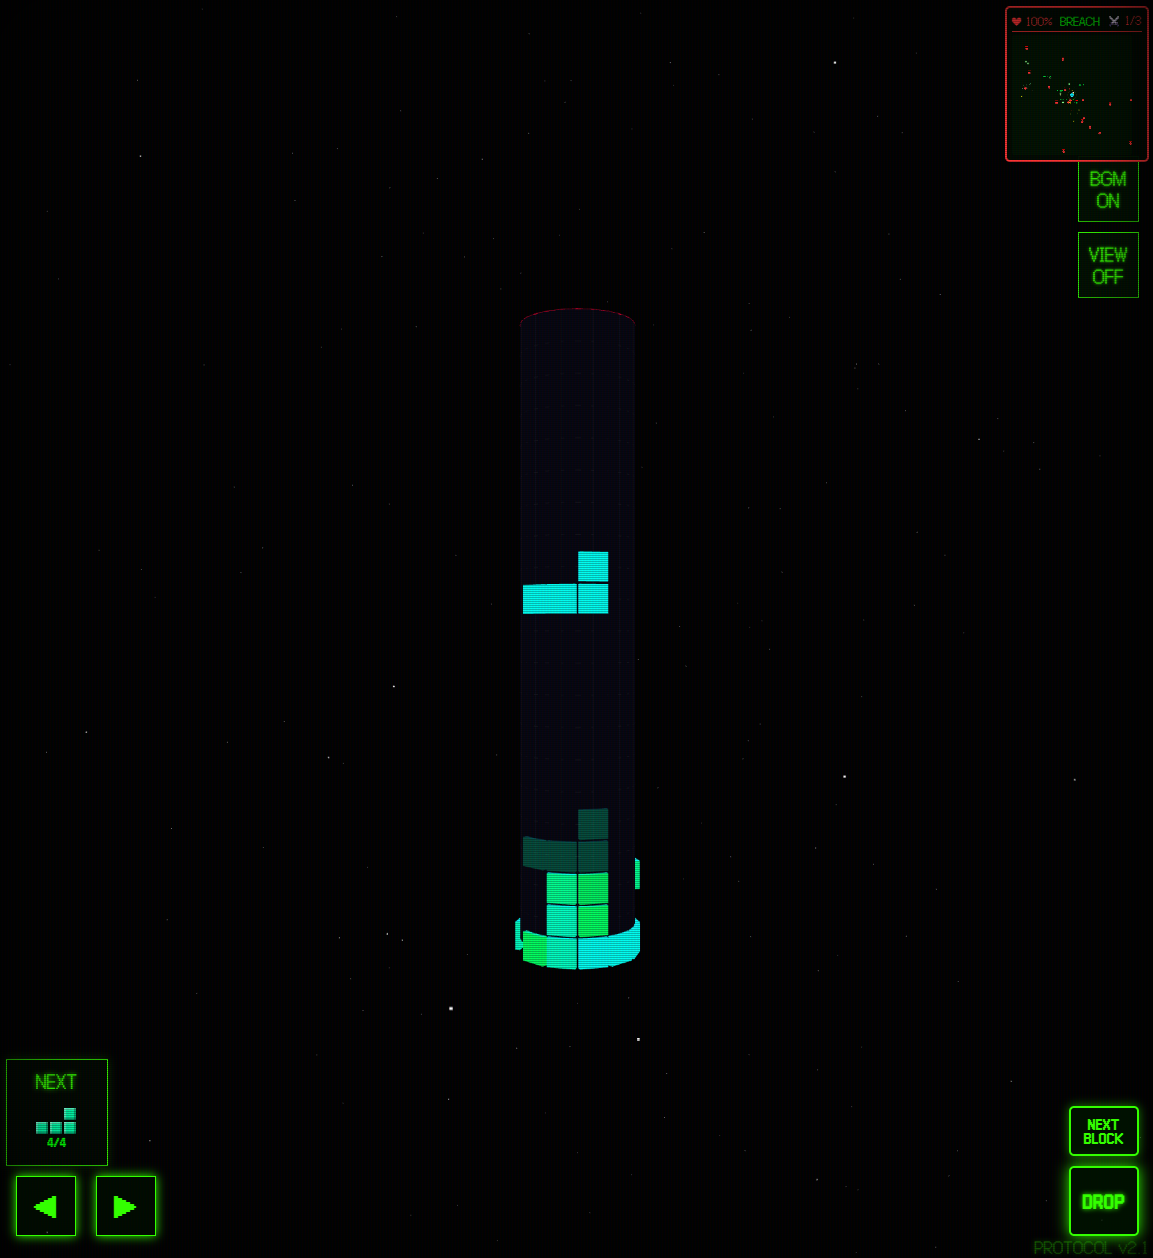
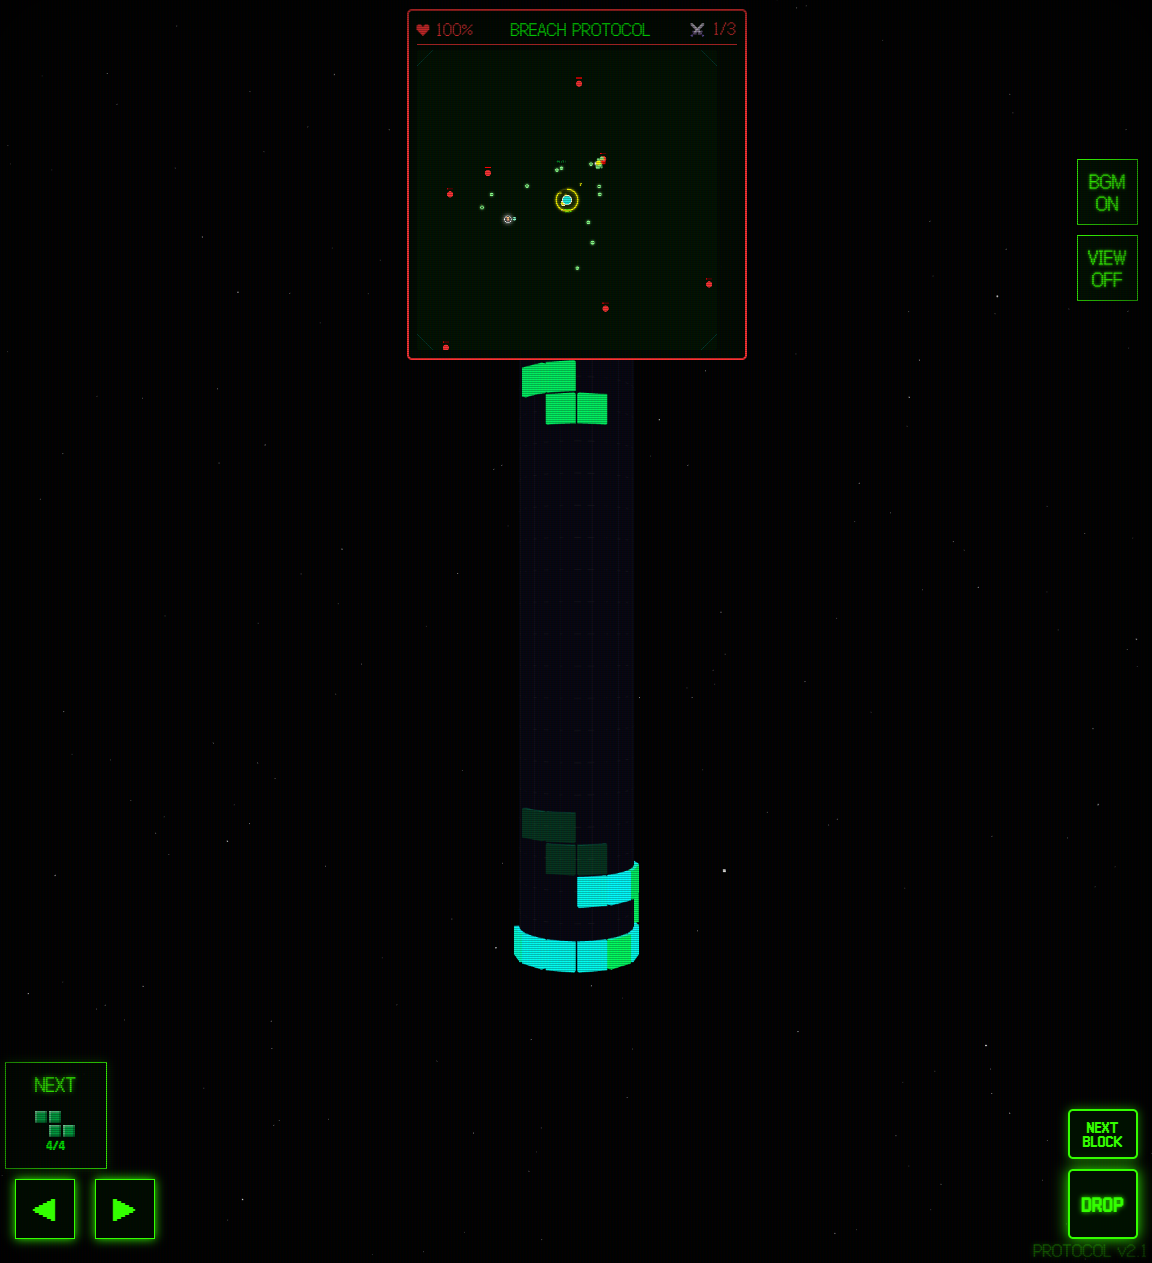
fix: Dynamic mini panel sizing and aspect ratio correction
Fixed mini defense panel issues:
1. Panel size: Calculate from available screen space (15% mobile, 28% PC)
2. Max square: min(available height, screen width ratio)
3. Copy logic: Ratio-aware calculation to prevent black borders
   - Compare original canvas ratio vs mini canvas ratio
   - Choose width or height basis accordingly
4. Always centered, never blocks tetris gameplay

diff --git a/js/modules/GameManager.js b/js/modules/GameManager.js
@@ -6957,27 +6957,49 @@ export class GameManager {
     this.removeMiniDefensePanel();
 
     const isMobile = window.innerWidth <= 768;
+    const screenHeight = window.innerHeight;
+    const screenWidth = window.innerWidth;
+
+    // 사용 가능한 공간 계산 (화면 상단의 일정 비율)
+    // 모바일: 15%, PC: 28%
+    const availableHeightRatio = isMobile ? 0.15 : 0.28;
+    const availableHeight = screenHeight * availableHeightRatio;
+
+    // 헤더 높이 고려 (약 30px)
+    const headerHeight = 30;
+    const maxCanvasHeight = availableHeight - headerHeight - 20; // 20px 여백
+
+    // 화면 너비도 고려 (너무 넓지 않게)
+    const maxCanvasWidth = isMobile ? screenWidth * 0.35 : screenWidth * 0.2;
+
+    // 정사각형 크기 결정 (둘 중 작은 값)
+    const canvasSize = Math.floor(Math.min(maxCanvasHeight, maxCanvasWidth));
+
+    debugLog("Conquest", "화면 크기:", screenWidth, "x", screenHeight);
+    debugLog("Conquest", "사용 가능 높이:", availableHeight.toFixed(0));
+    debugLog("Conquest", "최종 캔버스 크기:", canvasSize);
+
     const panel = document.createElement("div");
     panel.id = "mini-defense-panel";
 
+    const panelWidth = canvasSize + 16; // padding 고려
+
     if (isMobile) {
-      // 모바일: 작고, 중앙 상단
-      panel.style.cssText = "position: fixed; top: 10px; left: 50%; transform: translateX(-50%); width: 130px; padding: 5px; background: rgba(0, 10, 0, 0.95); border: 2px solid rgb(255, 51, 51); border-radius: 5px; color: rgb(255, 51, 51); font-family: var(--term-font); font-size: 10px; z-index: 1000;";
+      panel.style.cssText = `position: fixed; top: 10px; left: 50%; transform: translateX(-50%); width: ${panelWidth}px; padding: 5px; background: rgba(0, 10, 0, 0.95); border: 2px solid rgb(255, 51, 51); border-radius: 5px; color: rgb(255, 51, 51); font-family: var(--term-font); font-size: 10px; z-index: 1000;`;
 
       panel.innerHTML = `<div style="display: flex; justify-content: space-between; align-items: center; margin-bottom: 3px; padding-bottom: 3px; border-bottom: 1px solid rgb(255, 51, 51); font-size: 10px;">
         <span id="conquest-core-hp">♥ ${Math.ceil(this.bossManager ? this.bossManager.bossHP : 100)}%</span>
         <span style="color: #00ff00;">BREACH</span>
         <span id="conquest-page">1/3</span>
-      </div><canvas id="mini-defense-canvas" width="120" height="120" style="width: 120px; height: 120px; background: rgb(0, 17, 0); border-radius: 3px;"></canvas>`;
+      </div><canvas id="mini-defense-canvas" width="${canvasSize}" height="${canvasSize}" style="width: ${canvasSize}px; height: ${canvasSize}px; background: rgb(0, 17, 0); border-radius: 3px;"></canvas>`;
     } else {
-      // PC: 크게, 중앙 상단
-      panel.style.cssText = "position: fixed; top: 10px; left: 50%; transform: translateX(-50%); width: 320px; padding: 8px; background: rgba(0, 10, 0, 0.95); border: 2px solid rgb(255, 51, 51); border-radius: 5px; color: rgb(255, 51, 51); font-family: var(--term-font); font-size: 12px; z-index: 1000;";
+      panel.style.cssText = `position: fixed; top: 10px; left: 50%; transform: translateX(-50%); width: ${panelWidth}px; padding: 8px; background: rgba(0, 10, 0, 0.95); border: 2px solid rgb(255, 51, 51); border-radius: 5px; color: rgb(255, 51, 51); font-family: var(--term-font); font-size: 12px; z-index: 1000;`;
 
       panel.innerHTML = `<div style="display: flex; justify-content: space-between; align-items: center; margin-bottom: 5px; padding-bottom: 5px; border-bottom: 1px solid rgb(255, 51, 51); font-size: 14px;">
         <span id="conquest-core-hp">♥ ${Math.ceil(this.bossManager ? this.bossManager.bossHP : 100)}%</span>
         <span style="color: #00ff00;">BREACH PROTOCOL</span>
         <span id="conquest-page">TARGET: CORE</span>
-      </div><canvas id="mini-defense-canvas" width="300" height="300" style="width: 300px; height: 300px; background: rgb(0, 17, 0); border-radius: 3px;"></canvas>`;
+      </div><canvas id="mini-defense-canvas" width="${canvasSize}" height="${canvasSize}" style="width: ${canvasSize}px; height: ${canvasSize}px; background: rgb(0, 17, 0); border-radius: 3px;"></canvas>`;
     }
 
     debugLog("Conquest", "패널 생성 완료, body에 추가");

diff --git a/js/modules/DefenseGame.js b/js/modules/DefenseGame.js
@@ -4285,22 +4285,33 @@ export class DefenseGame {
         debugLog("Canvas", "3. isMobile =", this.isMobile);
       }
 
-      // 원본 캔버스 중앙 영역 계산 (미니 캔버스 비율에 맞게)
-      const ratio = miniW / miniH; // 400/150 = 2.67
-      // 가로를 기준으로 계산 (캔버스 너비 초과 방지)
-      // 모바일: 90% / PC: 80%
-      const sourceW = this.canvas.width * (this.isMobile ? 0.9 : 0.8);
-      const sourceH = sourceW / ratio; // 비율 유지
-      const sourceX = this.canvas.width / 2 - sourceW / 2;
-      const sourceY = this.canvas.height / 2 - sourceH / 2;
+      // 원본 캔버스 비율 유지 (세로 기준 계산)
+      // 원본: 1163x1270 (비율 0.916, 세로가 긴 직사각형)
+      // 미니: 정사각형 (1:1)
+      const originalRatio = this.canvas.width / this.canvas.height;
+      const miniRatio = miniW / miniH;
+
+      let sourceW, sourceH, sourceX, sourceY;
+
+      if (originalRatio < miniRatio) {
+        // 원본이 더 세로로 김 → 가로를 기준으로 맞춤
+        sourceW = this.canvas.width * 0.8; // 가로 80%
+        sourceH = sourceW / miniRatio; // 미니 비율에 맞춤
+      } else {
+        // 원본이 더 가로로 김 → 세로를 기준으로 맞춤
+        sourceH = this.canvas.height * 0.7; // 세로 70%
+        sourceW = sourceH * miniRatio; // 미니 비율에 맞춤
+      }
+
+      sourceX = this.canvas.width / 2 - sourceW / 2;
+      sourceY = this.canvas.height / 2 - sourceH / 2;
 
       // 디버그: 계산 결과
       if (this.renderDebugFrameCount < 3) {
-        debugLog("Canvas", "4. ratio =", ratio.toFixed(2));
-        debugLog("Canvas", "5. 복사 영역 가로: sourceW =", sourceW.toFixed(0), "(canvas.width *", this.isMobile ? "0.9)" : "0.8)");
-        debugLog("Canvas", "6. 복사 영역 세로: sourceH =", sourceH.toFixed(0), "(sourceW / ratio)");
-        debugLog("Canvas", "7. 복사 시작 위치: sourceX =", sourceX.toFixed(0), "sourceY =", sourceY.toFixed(0));
-        debugLog("Canvas", "8. drawImage 파라미터:");
+        debugLog("Canvas", "4. 원본 비율 =", originalRatio.toFixed(3), "미니 비율 =", miniRatio.toFixed(3));
+        debugLog("Canvas", "5. 복사 영역: sourceW =", sourceW.toFixed(0), "sourceH =", sourceH.toFixed(0));
+        debugLog("Canvas", "6. 복사 시작 위치: sourceX =", sourceX.toFixed(0), "sourceY =", sourceY.toFixed(0));
+        debugLog("Canvas", "7. drawImage 파라미터:");
         debugLog("Canvas", "   소스:", sourceX.toFixed(0), sourceY.toFixed(0), sourceW.toFixed(0), sourceH.toFixed(0));
         debugLog("Canvas", "   목적지:", "0 0", miniW, miniH);
         debugLog("Canvas", "=================================");

diff --git a/sw.js b/sw.js
@@ -1,5 +1,5 @@
-// v9.22.18 - Fix: Center mobile mini panel and increase PC size
-const CACHE_NAME = "hacker-tetris-v23.37"; // Mobile: 120x120 centered, PC: 300x300 centered
+// v9.22.19 - Fix: Dynamic mini panel sizing based on screen space and fix aspect ratio
+const CACHE_NAME = "hacker-tetris-v23.38"; // Calculate max square size from available screen space, fix black border with ratio-aware copy
 const ASSETS = [
   "./",
   "./index.html",

diff --git a/index.html b/index.html
@@ -78,7 +78,7 @@
       <!-- 모바일 컨트롤 (우측 드롭) -->
       <button id="drop-btn">DROP</button>
 
-      <div class="version-info" id="app-version">PROTOCOL v9.22.18</div>
+      <div class="version-info" id="app-version">PROTOCOL v9.22.19</div>
     </div>
 
     <!-- 게임 오버 스크린 -->
